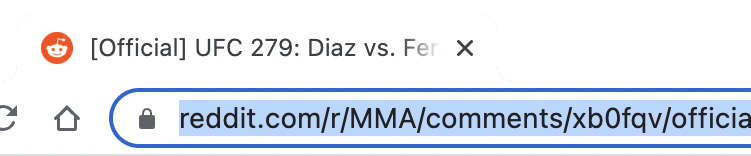
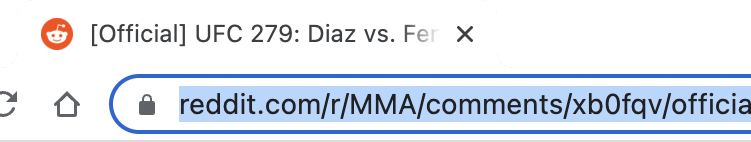
fix Home spacing

diff --git a/src/components/Home.js b/src/components/Home.js
@@ -17,7 +17,7 @@ function Home() {
           <div className="msg">Copy the reddit thread URL to the box above</div>
           <img src={arrow} className="arrow" alt="" />
         </div>
-        <img src={fullUrl} alt="" />
+        <img src={fullUrl} className="url" alt="" />
 
         <div className="how-to-2">
           <div className="msg">
@@ -25,7 +25,7 @@ function Home() {
             Replace "reddit" from the URL with "reddilive"
           </div>
         </div>
-        <img src={replacedUrl} alt="" />
+        <img src={replacedUrl} className="url" alt="" />
         <div className="about"></div>
       </div>
       <div className="main"></div>

diff --git a/src/styles/Home.css b/src/styles/Home.css
@@ -8,6 +8,7 @@
   margin-right: 8px;
   margin-bottom: -12%;
   margin-left: 12px;
+  padding-bottom: 12px;
 }
 
 .Home .sidebar .how-to-1,
@@ -32,6 +33,7 @@
 }
 
 .Home .sidebar .how-to-2 .big {
+  text-align: center;
   font-size: 48px;
   margin-bottom: 16px;
 }
